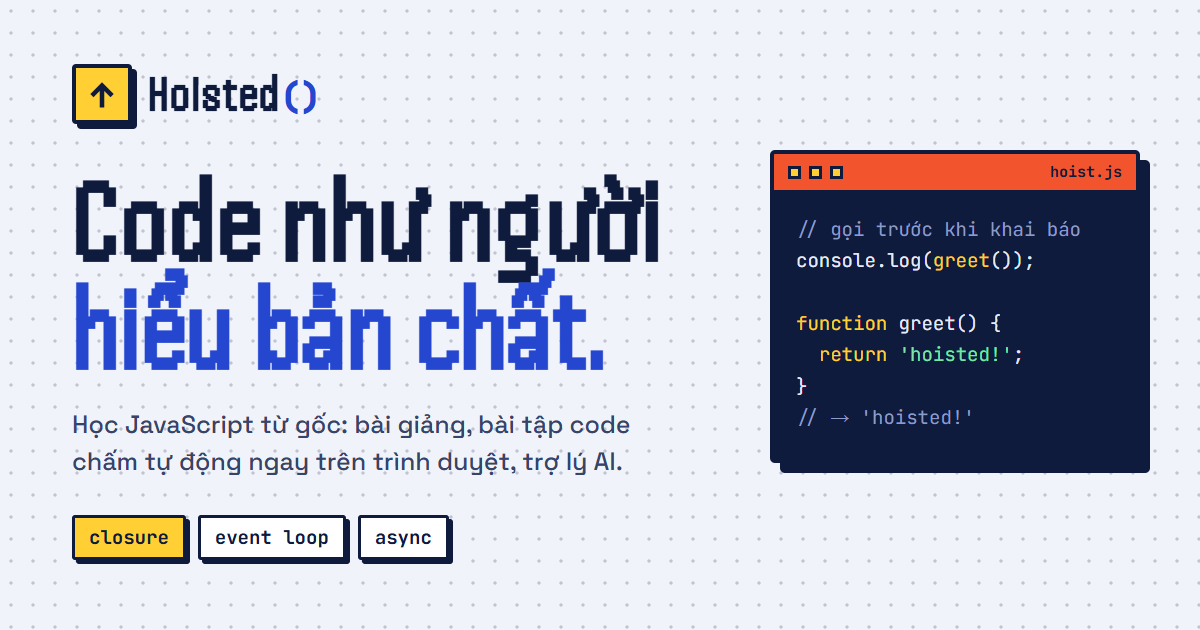
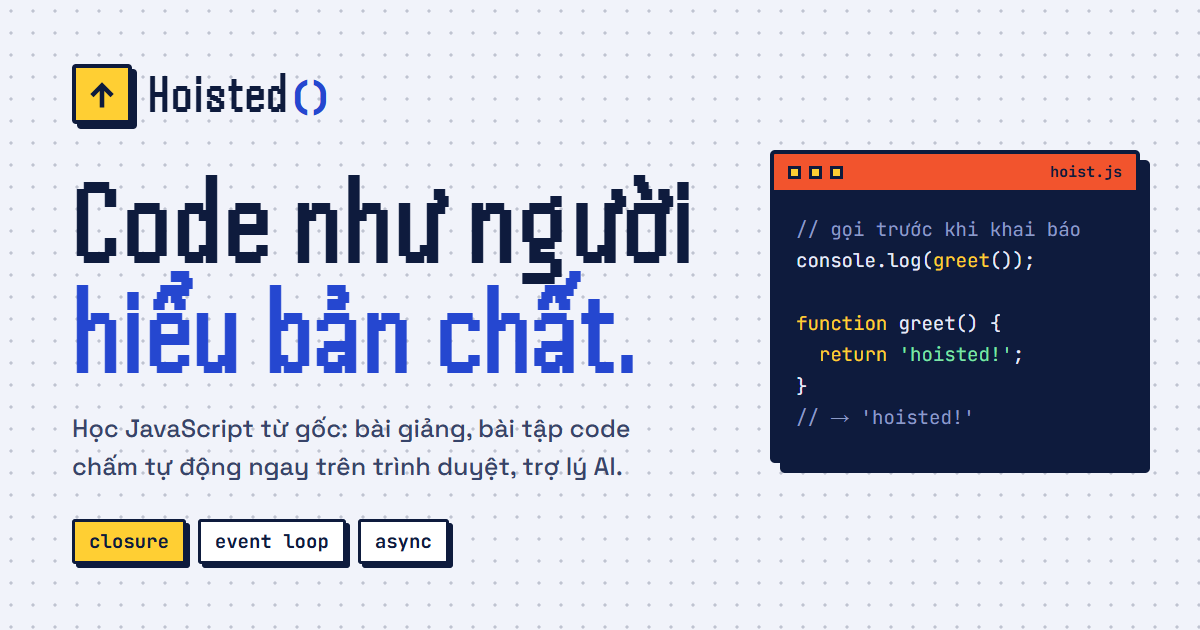
fix(ui): readable pixel headings, cart price placeholders, absolute share image
- Handjet display / logo weight 800 → 600: at 700+ the dot of "i" fused with
  the stem ("Holsted", "JavaScrlpt", "giảng vlên") in every pixel heading.
  Rule recorded in the design sidecar; og-image re-rendered.
- Cart: while course details are loading or failed, the summary showed
  "Miễn phí" / "0đ" and checkout stayed enabled on error; now "…" and disabled.
  Owned-course note back to the sans face.
- Revenue chart average label used M only ("TB 0.0M/ngày" for small revenue);
  shares the axis formatter (K / M) now.
- Admin orders: active tab count badge was yellow-on-yellow in dark mode.
- Admin instructor applications: status tabs use the segmented filter style.
- "Tạo câu hỏi bằng AI" button restyled (2px dashed edge, pop hover).
- vite: VITE_SITE_URL makes og:image / twitter:image absolute in index.html
  (crawlers don't run JS); build warns when it is missing. README documents it.

Verified in the browser (light + dark): become-instructor rejected banner,
cart owned / error states, instructor rejected / pending banners, revenue
bank warning, AI content + AI quiz drafts (mocked endpoints), all admin pages,
public + student mobile menus.

diff --git a/FE/hoisted-react/src/pages/public/cart.jsx b/FE/hoisted-react/src/pages/public/cart.jsx
@@ -56,6 +56,8 @@ export default function CartPage() {
     0,
   );
   const savings = Math.max(0, originalTotal - total);
+  // Giá chỉ biết khi đã tải xong — lúc đang tải / lỗi không hiện "Miễn phí" / "0đ" gây hiểu nhầm
+  const pricesKnown = !isLoading && !isError;
 
   const checkoutMutation = useMutation({
     mutationFn: () =>
@@ -194,7 +196,7 @@ export default function CartPage() {
                         {course.title}
                       </Link>
                       {isOwned ? (
-                        <p className="font-mono text-[12.5px] text-warn">
+                        <p className="text-[13px] font-medium text-warn">
                           Bạn đã đăng ký khóa học này
                         </p>
                       ) : (
@@ -232,7 +234,7 @@ export default function CartPage() {
                   return (
                     <div key={id} className="flex justify-between gap-3 text-[13px]">
                       <span className="text-ink-2 truncate flex-1">{c?.title ?? '…'}</span>
-                      <span className="font-mono text-ink shrink-0 tabular-nums">{formatPrice(c?.price ?? 0)}</span>
+                      <span className="font-mono text-ink shrink-0 tabular-nums">{c ? formatPrice(c.price) : '…'}</span>
                     </div>
                   );
                 })}
@@ -248,7 +250,7 @@ export default function CartPage() {
               <div className="border-t border-line pt-4 mb-5 flex items-end justify-between">
                 <span className="font-semibold text-ink">Tổng cộng</span>
                 <span className="font-mono font-extrabold tracking-tight text-[26px] text-ink leading-none tabular-nums">
-                  {formatVND(total)}
+                  {pricesKnown ? formatVND(total) : '…'}
                 </span>
               </div>
 
@@ -256,9 +258,9 @@ export default function CartPage() {
                 size="lg"
                 className={cn(
                   'w-full justify-center',
-                  !hasOwnedItem && !isLoading && 'shadow',
+                  !hasOwnedItem && pricesKnown && 'shadow',
                 )}
-                disabled={checkoutMutation.isPending || isLoading || hasOwnedItem}
+                disabled={checkoutMutation.isPending || !pricesKnown || hasOwnedItem}
                 onClick={handleCheckout}
               >
                 {checkoutMutation.isPending ? 'Đang tạo đơn hàng…' : (

diff --git a/FE/hoisted-react/src/pages/admin/instructor-applications.jsx b/FE/hoisted-react/src/pages/admin/instructor-applications.jsx
@@ -33,13 +33,13 @@ export default function AdminInstructorApplicationsPage() {
       <p className="eyebrow mb-1.5"><span className="text-accent">~/admin</span> <span className="text-ink-3">/ đơn-giảng-viên</span></p>
       <h1 className="display text-[32px] mb-5">Đơn đăng ký giảng viên</h1>
 
-      <div className="flex items-center gap-1 mb-4 border-b border-line">
+      <div className="inline-flex flex-wrap gap-1 mb-5 border-2 border-edge rounded-sm p-1 bg-bg-1">
         {TABS.map(([v, l]) => (
-          <button key={v || 'all'} onClick={() => setStatus(v)}
-            className={cn('px-3 py-2 -mb-px border-b-2 text-[13px] font-medium flex items-center gap-2',
-              status === v ? 'border-accent text-accent' : 'border-transparent text-ink-2 hover:text-ink')}>
+          <button key={v || 'all'} onClick={() => setStatus(v)} aria-pressed={status === v}
+            className={cn('px-3 py-1 rounded-sm text-[13px] font-bold flex items-center gap-2 transition-colors',
+              status === v ? 'bg-accent text-accent-ink' : 'text-ink-2 hover:text-ink hover:bg-bg-2')}>
             {l}
-            {v === 'PENDING' && data?.pending > 0 && <span className="font-mono text-[11px] px-1.5 py-0.5 rounded-sm bg-pop text-pop-ink ring-2 ring-inset ring-edge">{data.pending}</span>}
+            {v === 'PENDING' && data?.pending > 0 && <span className="font-mono text-[11px] px-1.5 rounded-sm bg-bg-1 text-ink border-2 border-edge">{data.pending}</span>}
           </button>
         ))}
       </div>

diff --git a/FE/hoisted-react/src/components/charts/revenue-area-chart.jsx b/FE/hoisted-react/src/components/charts/revenue-area-chart.jsx
@@ -34,6 +34,9 @@ export function useChartColors() {
       };
 }
 
+// 1.2M / 9K — trục Y và nhãn trung bình (trước đây nhãn luôn tính theo M → "TB 0.0M" khi doanh thu nhỏ)
+const compactVND = (v) => (v >= 1_000_000 ? `${(v / 1_000_000).toFixed(v < 10_000_000 ? 1 : 0)}M` : `${(v / 1_000).toFixed(0)}K`);
+
 /** data: [{ date: 'YYYY-MM-DD', revenue }] */
 export function RevenueAreaChart({ data, chart, range, label = 'Doanh thu' }) {
   const id = `revGrad-${label.replace(/W/g, '')}`;
@@ -82,7 +85,7 @@ export function RevenueAreaChart({ data, chart, range, label = 'Doanh thu' }) {
         />
         <YAxis
           tick={{ fontSize: 10, fill: chart.tickFaint }}
-          tickFormatter={v => v >= 1_000_000 ? `${(v / 1_000_000).toFixed(v < 10_000_000 ? 1 : 0)}M` : `${(v / 1_000).toFixed(0)}K`}
+          tickFormatter={compactVND}
           axisLine={false} tickLine={false}
           width={44}
           domain={[0, 'auto']}
@@ -114,7 +117,7 @@ export function RevenueAreaChart({ data, chart, range, label = 'Doanh thu' }) {
             stroke={chart.tickFaint}
             strokeDasharray="6 4"
             label={{
-              value: `TB ${(avg / 1_000_000).toFixed(1)}M/ngày`,
+              value: `TB ${compactVND(avg)}/ngày`,
               position: 'insideTopRight',
               fontSize: 10,
               fill: chart.tick,

diff --git a/FE/hoisted-react/vite.config.js b/FE/hoisted-react/vite.config.js
@@ -35,11 +35,29 @@ function robotsTxt(apiUrl) {
   };
 }
 
+/**
+ * og:image / twitter:image trong index.html là đường dẫn tương đối — Facebook, Zalo, Slack… không chạy JS nên
+ * cần URL tuyệt đối ngay trong HTML. Đặt VITE_SITE_URL (vd: https://hoisted.vn) khi build để ghép sẵn.
+ */
+function absoluteShareImage(siteUrl) {
+  const base = (siteUrl || '').replace(/\/$/, '');
+  return {
+    name: 'hoisted-absolute-share-image',
+    transformIndexHtml(html, ctx) {
+      if (!base) {
+        if (!ctx.server) console.warn('[hoisted] VITE_SITE_URL chưa đặt — og:image vẫn là đường dẫn tương đối (mạng xã hội sẽ không hiện ảnh).');
+        return html;
+      }
+      return html.replace(/(<meta (?:property="og:image"|name="twitter:image") content=")\//g, `$1${base}/`);
+    },
+  };
+}
+
 // https://vitejs.dev/config/
 export default defineConfig(({ mode }) => {
   const env = loadEnv(mode, process.cwd(), 'VITE_');
   return {
-    plugins: [react(), robotsTxt(env.VITE_API_URL || 'http://localhost:3001')],
+    plugins: [react(), robotsTxt(env.VITE_API_URL || 'http://localhost:3001'), absoluteShareImage(env.VITE_SITE_URL)],
     resolve: {
       alias: { '@': path.resolve(__dirname, './src') },
     },

diff --git a/FE/hoisted-react/src/index.css b/FE/hoisted-react/src/index.css
@@ -190,7 +190,7 @@ html:not(.dark) {
 /* ── Component classes (small, semantic) ────────────────────── */
 @layer components {
   /* Tiêu đề pixel: Handjet hẹp ngang nên phóng theo chiều cao chữ thường cho cân với Space Grotesk */
-  .display       { @apply font-pixel font-extrabold leading-[1] tracking-[0.01em]; font-size-adjust: 0.56; }
+  .display       { @apply font-pixel font-semibold leading-[1] tracking-[0.015em]; font-size-adjust: 0.56; }
   .eyebrow       { @apply font-mono text-[11px] font-bold uppercase tracking-[0.1em] text-ink-3; }
   .card          { @apply bg-bg-1 border-2 border-edge rounded shadow-lg; }
   .soft          { @apply bg-bg-2 border-2 border-edge/40 rounded; }

diff --git a/FE/hoisted-react/src/components/ai/ai-quiz-generator.jsx b/FE/hoisted-react/src/components/ai/ai-quiz-generator.jsx
@@ -64,7 +64,7 @@ export function AiQuizGenerator({ apiBase, lesson, quizId, onAdded }) {
   if (!open) {
     return (
       <button onClick={() => setOpen(true)}
-        className="w-full flex items-center justify-center gap-2 py-2.5 rounded-lg border border-dashed border-accent/50 text-accent text-[12.5px] font-medium hover:bg-accent/5">
+        className="w-full flex items-center justify-center gap-2 py-2.5 rounded-sm border-2 border-dashed border-edge text-ink text-[12.5px] font-bold hover:bg-pop hover:text-pop-ink hover:border-solid transition-colors">
         <Sparkles className="w-4 h-4" /> Tạo câu hỏi bằng AI
       </button>
     );

diff --git a/FE/hoisted-react/src/components/layout/admin-layout.jsx b/FE/hoisted-react/src/components/layout/admin-layout.jsx
@@ -174,7 +174,7 @@ function ConsoleLayout({ navGroups, home, consoleLabel, roleLabel, assistant }) 
           >
             <Menu className="w-4 h-4" />
           </button>
-          <p className="font-pixel font-extrabold text-[22px] leading-none text-ink">
+          <p className="font-pixel font-semibold text-[22px] leading-none text-ink">
             Hoisted<span className="font-mono text-[0.72em] tracking-[-0.06em] text-accent">()</span>
             <span className="font-mono font-bold uppercase tracking-[0.08em] text-ink-3 text-[11px] ml-2">{roleLabel}</span>
           </p>

diff --git a/FE/hoisted-react/src/components/logo.jsx b/FE/hoisted-react/src/components/logo.jsx
@@ -16,7 +16,7 @@ export function Logo({ size = 17, onDark = false, to = '/', sub }) {
         </svg>
       </span>
       <span className="leading-none">
-        <span className="block font-pixel font-extrabold tracking-[0.02em]" style={{ fontSize: Math.round(size * 1.45) }}>
+        <span className="block font-pixel font-semibold tracking-[0.03em]" style={{ fontSize: Math.round(size * 1.45) }}>
           Hoisted<span className={`font-mono text-[0.72em] tracking-[-0.06em] ${onDark ? 'text-pop' : 'text-accent'}`}>()</span>
         </span>
         {sub && (

diff --git a/FE/hoisted-react/src/pages/admin/orders.jsx b/FE/hoisted-react/src/pages/admin/orders.jsx
@@ -125,7 +125,7 @@ export default function AdminOrdersPage() {
                 {cnt != null && (
                   <span className={cn(
                     'text-[11px] px-1.5 py-0.5 rounded-sm',
-                    activeTab === value ? 'bg-pop text-pop-ink font-bold' : 'bg-bg-3 text-ink-2',
+                    activeTab === value ? 'bg-bg-1 text-ink font-bold' : 'bg-bg-3 text-ink-2',
                   )}>
                     {cnt}
                   </span>

diff --git a/FE/hoisted-react/README.md b/FE/hoisted-react/README.md
@@ -37,6 +37,10 @@ npm run build
 npm run preview
 ```
 
+Biến môi trường (`.env`): `VITE_API_URL` (API, mặc định `http://localhost:3001`) và `VITE_SITE_URL`
+(tên miền FE, vd `https://hoisted.vn`). Thiếu `VITE_SITE_URL` thì `og:image` / `twitter:image` trong
+`index.html` vẫn là đường dẫn tương đối và Facebook / Zalo / Slack sẽ không hiện ảnh chia sẻ — build sẽ cảnh báo.
+
 ---
 
 ## Folder structure
